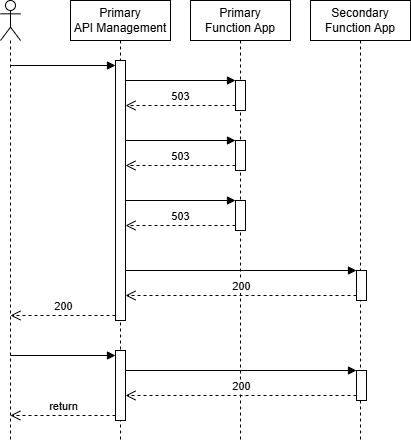
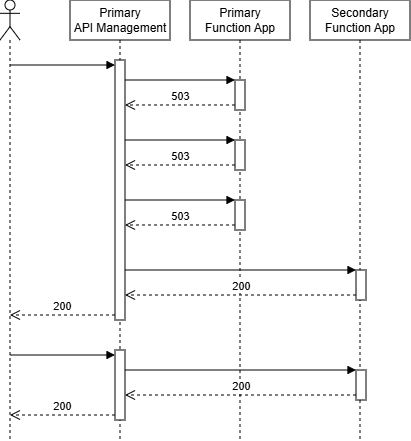
Improvements after first read

diff --git a/content/blog/failover-in-apim-with-load-balanced-pool/index.md b/content/blog/failover-in-apim-with-load-balanced-pool/index.md
@@ -4,7 +4,7 @@ date: 2026-03-06T14:00:00+01:00
 publishdate: 2026-03-06T14:00:00+01:00
 lastmod: 2026-03-06T14:00:00+01:00
 tags: [ "Azure", "API Management", "Azure Functions", "Bicep", "Resilience" ]
-summary: "In this post, I'll show you how to implement regional failover in Azure API Management using priority-based load-balanced pools, backend circuit breakers and retry policies. The setup sends traffic to the local backend by default and automatically fails over to the secondary backend when the primary backend becomes unavailable."
+summary: "In this post, I'll show you how to implement (regional) failover in Azure API Management using priority-based load-balanced pools, backend circuit breakers and retry policies. The setup sends traffic to the local backend by default and automatically fails over to the secondary backend when the primary backend becomes unavailable."
 draft: true
 ---
 
@@ -36,7 +36,7 @@ The following diagram shows the target architecture:
 
 API Management is deployed in two regions. Each region has its own Function App backend.
 
-When a request arrives at API Management in region A, it should call the Function App in region A. But if that backend is unavailable, API Management should fail over to the backend in region B.
+When a request arrives at API Management in the primary region, it should call the Function App in the same region. But if that backend is unavailable, API Management should fail over to the backend in the secondary region.
 
 One possible approach is custom policy logic that checks responses and manually calls the secondary backend using `send-request`. That works, but it can add a lot of policy complexity.
 
@@ -50,13 +50,11 @@ API Management supports three balancing modes in a load-balanced pool:
 - **Weighted**: Distributes requests based on backend weights
 - **Priority-based**: Uses higher-priority backend groups first, then lower-priority groups when higher groups are unavailable
 
-For failover, the priority-based option is exactly what we need.
-
-From the API Management documentation: lower-priority backends are used only when higher-priority backends are considered unavailable because their circuit breaker rules are tripped.
+For failover, the priority-based option is exactly what we need. Note that lower-priority backends are used only when higher-priority backends are considered unavailable because their circuit breaker rules are tripped.
 
 So the core idea is:
 
-- Define two backends (one per region)
+- Define two backends (one for each function app)
 - Add circuit breaker rules to each backend
 - Put both in a load-balanced pool with regional priority order
 
@@ -69,7 +67,7 @@ resource functionAppBackend 'Microsoft.ApiManagement/service/backends@2025-03-01
 	parent: apiManagementService
 	name: functionAppName
 	properties: {
-		description: 'The backend for the primary region'
+    	description: 'The backend for Function App ${functionAppName}'
 		url: 'https://${functionApp.properties.defaultHostName}'
 		protocol: 'http'
 		credentials: {
@@ -111,9 +109,11 @@ This backend configuration does the following:
 2. Adds the Function host key in the `x-functions-key` header
 3. Configures a circuit breaker to detect backend issues
 
-The circuit breaker rule means that if API Management sees three failures within 15 seconds (either `BackendConnectionFailure` or response codes in the 502-504 range), it opens the circuit for 30 seconds.
+The circuit breaker rule means that if API Management sees three failures within 15 seconds (either `BackendConnectionFailure` or response codes in the 502-504 range), it opens the circuit for 30 seconds. While the circuit is open, API Management treats this backend as unavailable for pool routing decisions.
 
-While the circuit is open, API Management treats this backend as unavailable for pool routing decisions.
+Note that the configured `tripDuration` and `failureCondition` values are chosen to demonstrate the scenario in this post. When implementing this in a real solution, review and tune these values based on your traffic patterns, backend behavior and recovery expectations.
+
+
 
 ### Create a Priority-based Load-balanced Pool
 
@@ -142,14 +142,14 @@ resource loadBalancedPool 'Microsoft.ApiManagement/service/backends@2025-03-01-p
 }
 ```
 
-This snippet is interesting because it uses the same `service/backends` resource type as a normal backend, but sets `type: 'Pool'`.
+It uses the same `service/backends` resource type as a normal backend, but with `type: 'Pool'`.
 
-In region A:
+In the primary region:
 
-- Backend for Function App in region A gets priority `1`
-- Backend for Function App in region B gets priority `2`
+- The backend for Function App in the primary region gets priority `1`
+- The backend for Function App in the secondary region gets priority `2`
 
-In region B, you reverse that setup.
+In the secondary region, you reverse that setup.
 
 With that in place, API Management uses the local backend first. If the local backend circuit breaker is open, the next request goes to the next priority group, which is the backend in the other region.
 
@@ -157,11 +157,11 @@ With that in place, API Management uses the local backend first. If the local ba
 
 You can configure the pool in the `inbound` section with [`set-backend-service`](https://learn.microsoft.com/en-us/azure/api-management/set-backend-service-policy), just like a regular backend:
 
-```xml
+```
 <inbound>
-		<base />
-		<set-backend-service backend-id="load-balanced-pool" />
-		<rewrite-uri template="api/ProcessRequestFunction" />
+    <base />
+    <set-backend-service backend-id="load-balanced-pool" />
+    <rewrite-uri template="api/ProcessRequestFunction" />
 </inbound>
 ```
 
@@ -175,20 +175,16 @@ From this point on, backend selection is handled by the pool configuration and c
 
 ### Add Retry to Trigger Fast Failover
 
-A load-balanced pool does not retry within the same client request by itself.
+It's important to note that a load-balanced pool does not retry within the same client request by itself. For example, if the selected backend returns a `503`, that `503` is returned to the client unless you add retry logic.
 
-That means if the selected backend returns a `503`, that `503` is returned to the client unless you add retry logic.
+Without retry, you would need multiple client calls to trip the circuit breaker and after three failing calls within 15 seconds, the fourth client call would reach the secondary region. To make failover happen within one request, add the `retry` policy in the `backend` section:
 
-Without retry, you would need multiple client calls to trip the circuit breaker. In this case, after three failing calls within 15 seconds, the fourth client call would reach the secondary region.
-
-To make failover happen within one request, add the `retry` policy in the `backend` section:
-
-```xml
+```
 <backend>
-		<retry condition="@(context.Response.StatusCode >= 500)"
-					 count="3" interval="1" first-fast-retry="true">
-				<forward-request buffer-request-body="true" />
-		</retry>
+    <retry condition="@(context.Response.StatusCode >= 500)"
+           count="3" interval="1" first-fast-retry="true">
+        <forward-request buffer-request-body="true" />
+    </retry>
 </backend>
 ```
 
@@ -203,49 +199,44 @@ Set `buffer-request-body="true"` when retrying `forward-request`. Without reques
 
 ### Try It Out
 
-I've created a working sample here:
-
-- [failover-with-load-balanced-pool sample](https://github.com/ronaldbosma/azure-apim-samples/tree/main/failover-with-load-balanced-pool)
-
-For prerequisites and deployment instructions, see the sample [README](https://raw.githubusercontent.com/ronaldbosma/azure-apim-samples/refs/heads/main/failover-with-load-balanced-pool/README.md).
+I've created a working sample here: [Failover with Load-Balanced Pool](https://github.com/ronaldbosma/azure-apim-samples/tree/main/failover-with-load-balanced-pool). See the README for deployment instructions and details.
 
 These files are useful to inspect:
 
 - [api.bicep](https://github.com/ronaldbosma/azure-apim-samples/blob/main/failover-with-load-balanced-pool/infra/resilient-api/api.bicep): Deploys the API with the load-balanced pool and backend wiring
-- [backend.bicep](https://github.com/ronaldbosma/azure-apim-samples/blob/main/failover-with-load-balanced-pool/infra/resilient-api/backend.bicep): Configures per-backend circuit breaker behavior
+- [backend.bicep](https://github.com/ronaldbosma/azure-apim-samples/blob/main/failover-with-load-balanced-pool/infra/resilient-api/backend.bicep): Deploys a backend with circuit breaker rules
+- [process-request.policy.xml](https://github.com/ronaldbosma/azure-apim-samples/blob/main/failover-with-load-balanced-pool/infra/resilient-api/process-request.policy.xml): Shows the use of the load-balanced pool and retry policy that triggers failover within a single request
 - [ProcessRequestFunction.cs](https://github.com/ronaldbosma/azure-apim-samples/blob/main/failover-with-load-balanced-pool/src/ProcessRequestFunction.cs): Backend Function that returns status codes based on input
 - [tests.http](https://github.com/ronaldbosma/azure-apim-samples/blob/main/failover-with-load-balanced-pool/tests.http): Ready-to-run HTTP test requests
 
 Use this request against one API Management instance:
 
-```http
+```
 POST https://apim-primary-sdc-orfff.azure-api.net/resilient-api/
 Content-Type: application/json
 
 [
-		{
-				"functionApp": "func-primary-sdc-orfff",
-				"respondsWithResultCode": 503
-		},
-		{
-				"functionApp": "func-secondary-nwe-g5bv4",
-				"respondsWithResultCode": 200
-		}
+    {
+        "functionApp": "func-primary-sdc-orfff",
+        "respondsWithResultCode": 503
+    },
+    {
+        "functionApp": "func-secondary-nwe-g5bv4",
+        "respondsWithResultCode": 200
+    }
 ]
 ```
 
-This payload tells each Function App how to respond.
+This payload tells each Function App how to respond. In this example:
 
-In this example:
-
-- Primary Function App returns `503`
-- Secondary Function App returns `200`
+- The primary Function App returns `503 Service Unavailable`
+- The secondary Function App returns `200 OK`
 
 With retry enabled, API Management will retry, trip the primary backend circuit breaker and then route to the secondary backend.
 
 Example response:
 
-```http
+```
 HTTP/1.1 200 OK
 Content-Type: application/json
 X-Attempt-Count: 4
@@ -260,7 +251,7 @@ X-Attempt-Count: 4
 
 - `1` when the local backend succeeds immediately
 - `4` when the first backend fails three times, then the fourth attempt is sent to the secondary backend
-- `1` for repeated failing requests made within 30 seconds, because the primary circuit is still open and API Management directly selects the secondary backend
+- `1` for repeated requests made within 30 seconds, because the primary circuit is still open and API Management directly selects the secondary backend
 
 The sequence below shows both cases: failover after circuit-breaker trip and direct routing while the circuit remains open.
 
